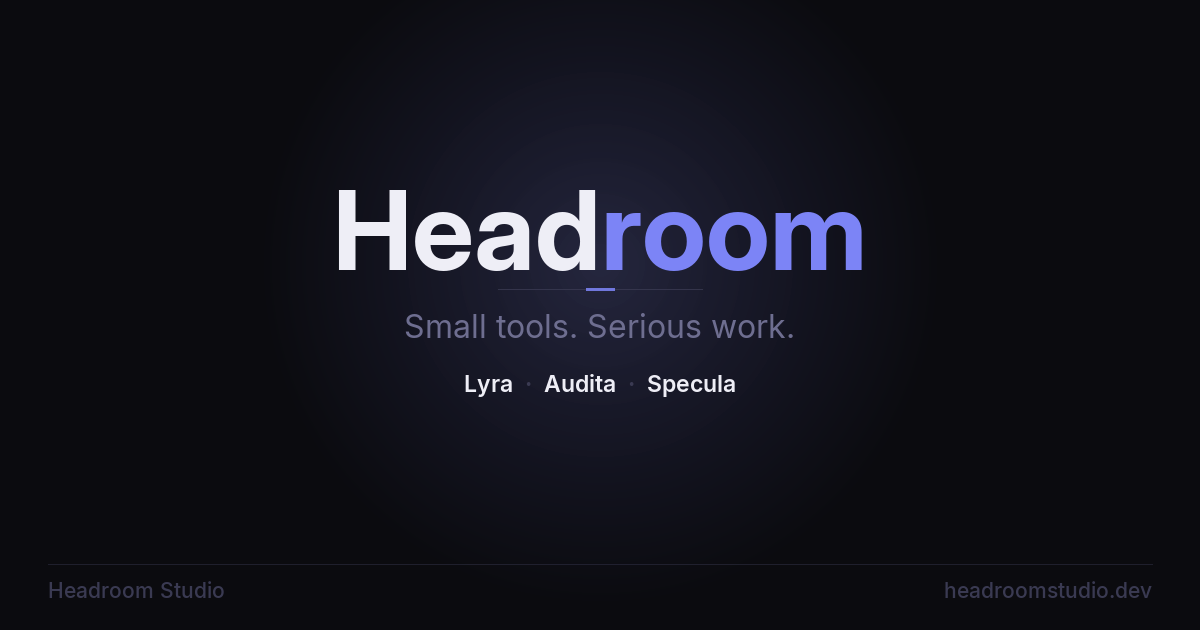
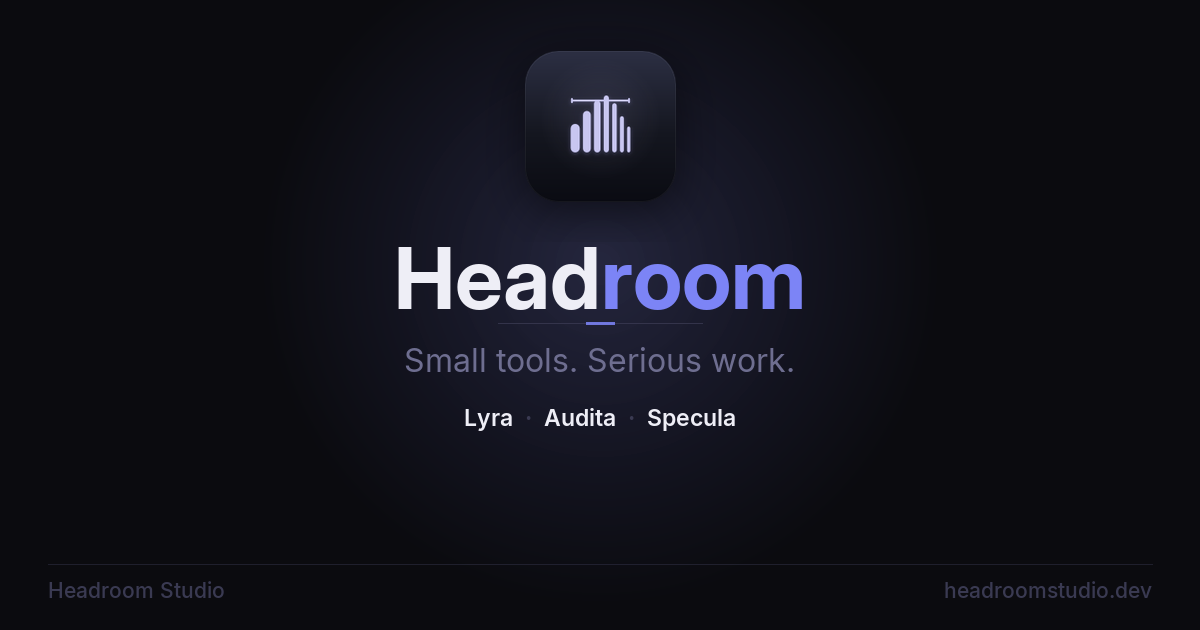
Homepage OG: add Headroom studio mark above wordmark
Uses apple-touch-icon.png as the hero element so the homepage card
matches the visual weight of the app cards (which also lead with an
icon). Wordmark shrinks slightly to keep the composition centred.

Changed region(s): [[0.2775, 0.2714, 0.74, 0.6937], [0.4317, 0.0603, 0.555, 0.2413]]

diff --git a/generate_og_images.py b/generate_og_images.py
@@ -249,14 +249,19 @@ def render_homepage(size):
     img  = make_base(W, H)
     draw = ImageDraw.Draw(img, "RGBA")
 
+    # Studio mark — the Headroom squircle (apple-touch-icon)
+    mark_size = int(H * 0.24)
+    mark_cy   = int(H * 0.20)
+    paste_icon(img, "apple-touch-icon.png", mark_size, W // 2, mark_cy)
+
     # Wordmark "Headroom"
-    name_size = int(H * 0.175)
+    name_size = int(H * 0.135)
     f_logo    = font("InterDisplay-Bold.ttf", name_size)
     head_w    = draw.textbbox((0, 0), "Head", font=f_logo)[2]
     room_w    = draw.textbbox((0, 0), "room", font=f_logo)[2]
     total     = head_w + room_w
     logo_x    = (W - total) // 2
-    logo_y    = int(H * 0.26)
+    logo_y    = mark_cy + mark_size // 2 + int(H * 0.040)
     draw.text((logo_x,            logo_y), "Head", font=f_logo, fill=TEXT)
     draw.text((logo_x + head_w,   logo_y), "room", font=f_logo, fill=ACCENT)
 
